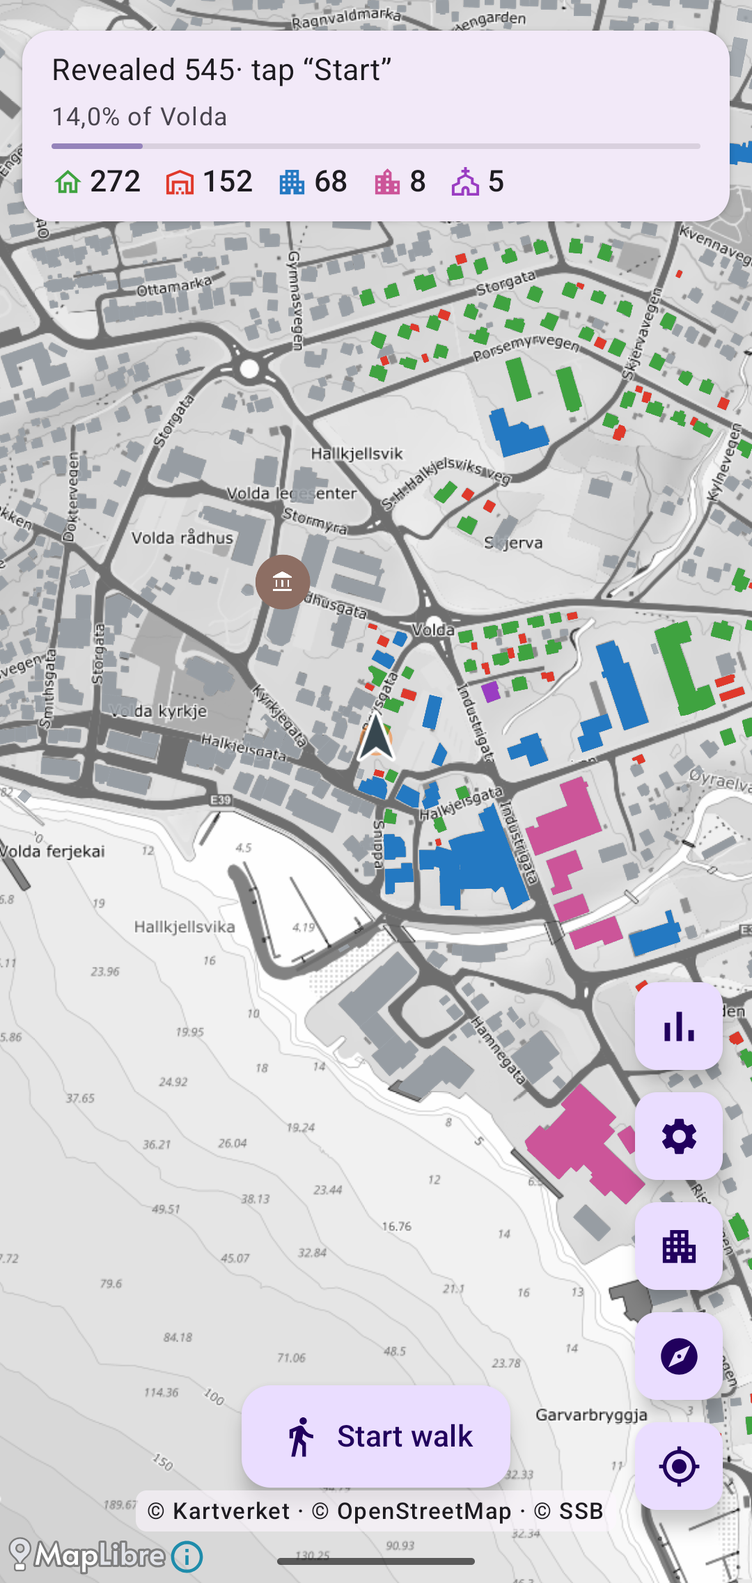
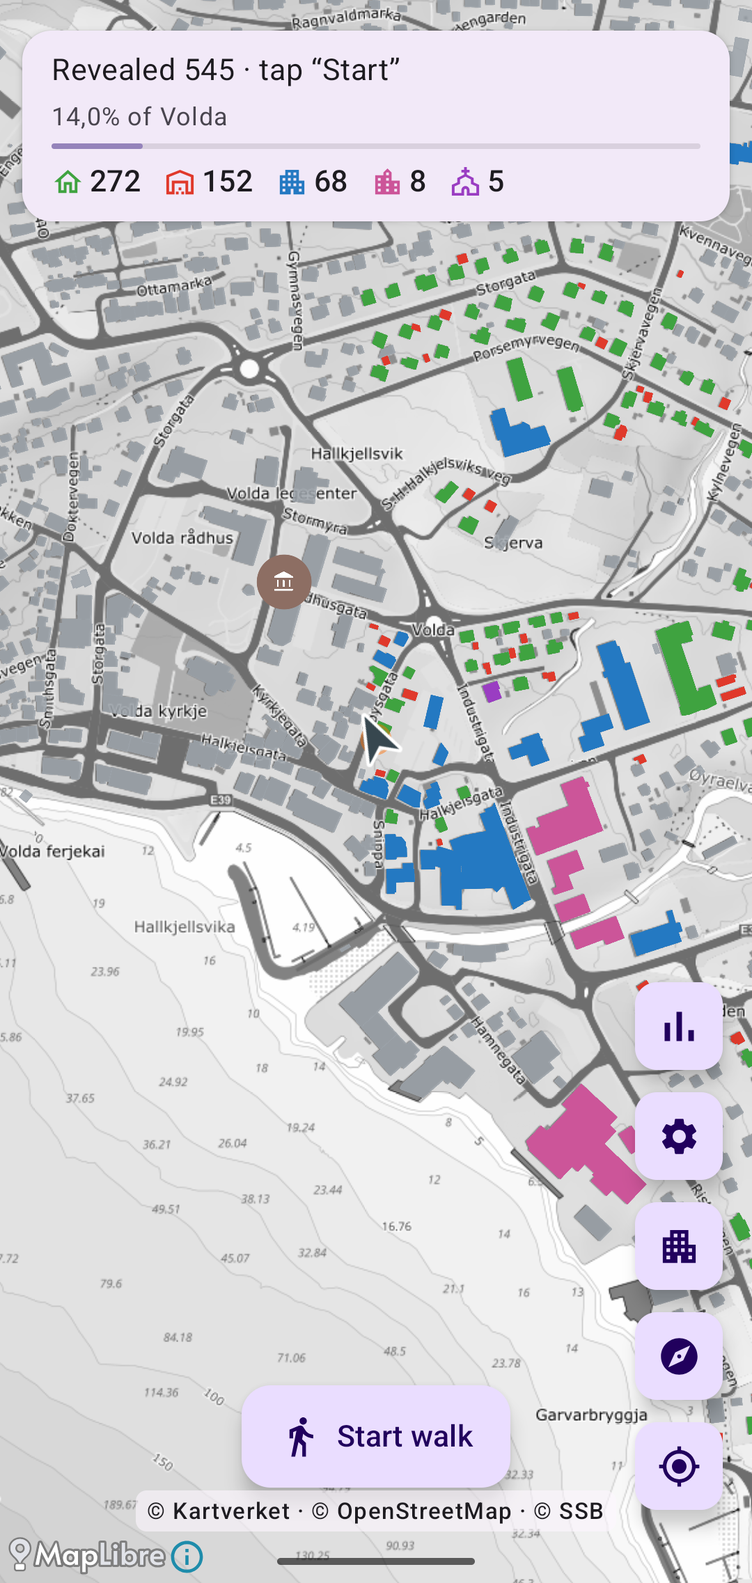
docs: кадри en перезнято; #19 — мовні спліти Play ламають перемикач мов
Три англійські кадри зняті з versionCode 4, плашка читається
«Revealed 545 · tap "Start"».

Норвезьких зняти не вдалося, і причина не в нашому коді. .aab не є одним
APK: Play ріже його на спліти й шле лише потрібні телефону — під процесор,
щільність і МОВИ. На пристрої стояли split_config.{en,uk} при мові системи
uk-UA,en-US; спліта nb не існувало взагалі, хоча в бандлі переклади є
(resources.pb містить Avdekket [nb] і Avdekt [nn]).

Вирішальна перевірка — виставити локаль повз застосунок:
`cmd locale set-app-locales app.streif --locales nb`. Система підтвердила
[nb], інтерфейс лишився англійським — отже справа у відсутніх ресурсах.

⚠ Це дефект тесту, а не зйомки (#19): секцію «Language (dev)» ми віддали
тестерам саме для перевірки перекладів, а вона не працює ні в кого, чий
телефон не має тієї мови в системі.

Рішення Дениса — чекати, поки Play догонить спліти; правка на два рядки
(enableSplit=false + resourceConfigurations) лишається напоготові.

Changed region(s): [[0.4583, 0.4059, 0.55, 0.4996], [0.3361, 0.0312, 0.5194, 0.0624], [0.6722, 0.4059, 0.7028, 0.4371]]

diff --git a/docs/release-checklist.md b/docs/release-checklist.md
@@ -254,7 +254,7 @@ Android-OAuth-клієнт прив'язаний до пари *(package name, S
 | 5 | *App content* → **Foreground service permissions** | за `play-fgs-declaration.md`; відео ✅ знято й перевірено покадрово (дубль 2).<br>✅ **декларацію заповнено** — перевірив Денис 2026-07-29 у Play (Політика → Контент додатків).<br>*Хибна тривога з мого боку, і причина варта запису: у «Надісланий додаток 1» рівно 15 змін, і рядка про foreground service серед них немає, хоча для «Додатки для здоров'я» окремий рядок є. Тобто **список надісланих змін не є переліком заповнених декларацій** — принаймні FGS у нього не потрапляє. Не робити з нього висновків про повноту.* |
 | 6 | *App content* → решта декларацій | Ads: **No** · Content rating (анкета — Everyone) · Target audience: **не діти** · News app: No · Government app: No · Financial features: No · Data deletion: за §4 Data safety · **Health apps: див. нижче** |
 | 6a | *App content* → **Додатки для здоров'я** ⚠ форма З'ЯВЛЯЄТЬСЯ, її не оминути | Тригер — дозвіл `ACTIVITY_RECOGNITION`; Play сам пише «якщо функцій здоров'я немає — вилучіть дозвіл». **Рішення Дениса (2026-07-29): лишаємо дозвіл, відповідаємо «Інше»** з описом, що це заборонний фільтр.<br>**Підстава з коду, не з припущення:** `ActivityGate` використовує AR виключно щоб на `IN_VEHICLE`/`ON_BICYCLE` **припинити** зарахування — жодної фітнес-метрики не збирає й не показує. Альтернатива (прибрати дозвіл) коштувала б якості: лишився б тільки фільтр `MAX_PED_SPEED = 7 м/с` (~25 км/год), тож повільна їзда містом давала б хибні розкриття — рівно те, що тест і має міряти.<br>⚠ **НЕ ставити «Активність і фітнес»**: неправда, і затягує в політику додатків для здоров'я. Крок 2 форми — доступу до даних здоров'я немає (у 12 дозволах бандла жодного від Health Connect); крок 3 — скрізь «Ні».<br>Текст відповіді — одразу під таблицею |
-| 7 | *Store listing* — англійська | Назва, коротким описом (80 симв.), повний опис, скріншоти (мін. 2, телефон), feature graphic 1024×500, іконка 512×512.<br>✅ **Скріншоти en знято 2026-07-30** → `docs/store-assets/play-screenshot-{1-map,2-progress,3-nature}-en.png` (1080×2274, з живими 545 розкриттями у Volda). Зняті з пристрою через `adb exec-out screencap` + тапи по координатах із `uiautomator dump`, тож кадри справжні, не мокапи.<br>⚠ **Верх обрізано свідомо (150 px):** у службовій панелі були час, іконки сповіщень (Telegram), позначка роумінгу й **батарея 12%** — усе особисте й усе зайве в магазині. **Низ НЕ обрізано** — там `© Kartverket · © OpenStreetMap · © SSB`, обов'язкова атрибуція джерел.<br>🔴 Норвезьких кадрів **немає** — сторінка `no-NO` поки показує англійські. У збірці є перемикач локалі (dev-інструменти під `TELEMETRY`), тож знімаються тим самим способом. |
+| 7 | *Store listing* — англійська | Назва, коротким описом (80 симв.), повний опис, скріншоти (мін. 2, телефон), feature graphic 1024×500, іконка 512×512.<br>✅ **Скріншоти en знято 2026-07-30** → `docs/store-assets/play-screenshot-{1-map,2-progress,3-nature}-en.png` (1080×2274, з живими 545 розкриттями у Volda). Зняті з пристрою через `adb exec-out screencap` + тапи по координатах із `uiautomator dump`, тож кадри справжні, не мокапи.<br>⚠ **Верх обрізано свідомо (150 px):** у службовій панелі були час, іконки сповіщень (Telegram), позначка роумінгу й **батарея 12%** — усе особисте й усе зайве в магазині. **Низ НЕ обрізано** — там `© Kartverket · © OpenStreetMap · © SSB`, обов'язкова атрибуція джерел.<br>✅ **Перезнято 2026-07-31** із `versionCode 4` (усі три — у першому було видно дефект #18, решту перезнято для однорідності): плашка тепер читається `Revealed 545 · tap “Start”`. Знято `adb exec-out screencap` + тапи по координатах із `uiautomator dump` — координати **не вгадуються**, дамп віддає точні `bounds` (`Progress`, `City / nature mode` тощо мають `contentDescription`, побічна вигода від accessibility).<br>🔴 Норвезьких кадрів **немає, і причина не в нас** — див. §B.6.3 **#19**: Play не доставив на телефон мовні спліти `nb`/`nn` (переклади в `.aab` є, на пристрої їх немає). Мову в систему додано 2026-07-31, **чекаємо, поки Play догонить спліти**; кадри знімаються одразу після цього. |
 | 8 | *Store listing* — **норвезька (bokmål)** | Додати локалізацію `no-NO`. У застосунку вже є `values-nb` + `values-nn` ✅ |
 | 9 | Зібрати **`.aab`** (не `.apk`) | Для застосунків, створених після серпня 2021, APK більше не приймають |
 | 10 | Створити трек **Closed testing** | Список тестерів — email'и або Google Group. Group зручніша: додавати людей без нового релізу |
@@ -335,6 +335,7 @@ Review трьома незалежними лінзами (втрата дани
 | 6 | 🟡 **debug+upload закрито 2026-07-29; лишився третій SHA-1** | ~~Android-OAuth-клієнти зареєстровано на **старий package**~~ | Було «major» (лише release-SHA-1); зміна `applicationId` (B.0) тимчасово підняла тяжкість до blocker: OAuth-клієнт прив'язаний до пари *(package name, SHA-1)*, тож під `app.streif` не підходив жоден наявний. **Денис створив клієнти на `app.streif` (debug + upload) 2026-07-29 — синк ✅ ПРАЦЮЄ, device-verified** (нижче). Відкритим лишається **лише третій** клієнт — SHA-1 із **Play Console → App signing**: узяти його можна тільки ПІСЛЯ першого завантаження `.aab`, а без нього вхід упаде саме у версії, яку встановлять тестери з треку.<br>⚠ **Урок, вартий запису:** самих клієнтів **не досить**. Згода на `drive.appdata` видається під конкретний ідентифікатор застосунку, а `app.streif` її ніколи не мав — попри те, що `backup_email` приїхав зі старих `shared_prefs` і UI показував «ввійшли». `blockingAccessToken()` мовчазний за задумом (`hasResolution()` → `null`), `sync()` віддає `NotSignedIn`, а `MainActivity` на цей результат toast НЕ показує. Тому збій виглядав як **повна тиша**: ні помилки, ні логу, ні руху `backup_last_ts`. Лікується виходом+входом у Settings. Те саме чекає **кожного тестера**, якщо колись знадобиться міняти ідентифікатор ще раз.<br>**Підтверджено на пристрої 2026-07-29** в обидва боки, не лише за документацією. *Зламано:* «Sikkerhetskopier nå» **не зрушив `backup_last_ts`** (стояв `1785263881703` = 2026-07-28 20:38), Play services писали `GetToken failed … BadAuthentication`. *Полагоджено:* після клієнтів + виходу/входу — `backup_last_ts` = **2026-07-29 10:15**, лічильники `syncOk: 5 · syncFail: 0 · syncDup: 0`, розкриття недоторкані (SHA-256 по таблицях `visits`/`sessions`/`poi_visits` збігся до й після синку). `syncFail: 0` — це заразом доказ, що **push пройшов**: збій запису в Drive пішов би в `catch` і збільшив саме цей лічильник. `syncDup: 0` (рахується при `>1` файлі) — дублікатів копії в Drive не з'явилось, тобто §B.6 #13 у полі не спрацював.<br>**SHA-1 (package `app.streif`):**<br>• ✅ **debug** — `F4:AD:E2:8D:C7:98:2D:22:14:65:EC:7F:0C:39:12:C8:A8:B9:FE:CF` (`~/.android/debug.keystore`, alias `androiddebugkey`);<br>• ✅ **upload-ключ** — `DC:10:A3:D0:79:D4:ED:5F:D4:21:8B:30:C9:0B:8A:23:37:F9:63:D1` (`keytool -printcert -jarfile app-release.aab`);<br>• ✅ **Play App Signing — їх ДВА, і потрібні обидва** (узято 2026-07-29 після першого завантаження `.aab`; розділ переїхав: тепер «Захищено за допомогою Google Play» → «Захист Google Play» → «Підписання додатків»):<br>  – поточний, «Класичний ключ» → `0B:40:78:78:B1:48:7F:A1:5F:F4:71:CF:DF:65:74:7B:63:29:94:22`<br>  – **попередній** → `85:EC:2D:3D:8E:A2:54:AE:A5:2E:54:23:11:E1:AE:06:40:A4:C9:C7` (`CN=Android, O=Google Inc.`, дійсний з 29.07.2026 12:57 — Play згенерував ключ і одразу оновив його на постквантово-готовий).<br>  ⚠ **Чому обидва, а не лише поточний.** Ротація ключів підпису тримається на **APK Signature Scheme v3**, підтримка якої починається з **Android 9 (API 28)**. Нижче — перевірка йде за v2/v1, а там сертифікат **початковий**. У нас `minSdk = 24`, тож тестер на Android 7-8 отримає застосунок, який для Google Sign-In виглядає підписаним ПОПЕРЕДНІМ ключем. Зареєстрований лише новий → у нього вхід беззвучно не працює (та сама тиша, що описана вище). Зайвий OAuth-клієнт не заважає нікому; відсутній коштує мовчазного збою.<br>  ⚠ **Постквантовий** відбиток на тій самій сторінці для OAuth **не використовується** — брати «Класичний ключ».<br>• **Сертифікат ключа завантаження** там же показує `DC:10:A3:…:63:D1` — збігається з тим, що `keytool -printcert -jarfile` дав із нашого `.aab`. Добра перевірка, що підписуємо тим, чим думаємо.<br>⚠ `default_web_client_id` міняти НЕ треба: web-клієнт до package не прив'язаний. |
 | 18 | ✅ **виправлено 2026-07-31** (`a476976`) | ~~Шість рядків покладаються на початковий пробіл, який Android обрізає~~ | `status_hint_start` (`" · tap “Start”"`) і `status_route` (`" · route +%1$d, %2$d m"`) — по одному в `values`/`values-nb`/`values-nn`. Обидва конкатенуються з `status_revealed_n` («Revealed %1$d»), а компілятор ресурсів прибирає крайні пробіли, тож на екрані виходило **`Revealed 545· tap “Start”`** — злите. Побачено не в коді, а на скріншоті, знятому для сторінки Play, тобто дефект уже поїхав би в магазин. `status_route` гірший: він показується **під час прогулянки**, тобто перед кожним тестером.<br>**Як полагоджено:** пробіл переїхав у **конкатенацію** в `StatusPlate` (`Text("$revealed $tail")`) — із трьох можливих способів (`&#160;` · `xml:space="preserve"` · пробіл у коді) цей єдиний не залежить від того, чи наступний перекладач збереже початковий пробіл у своєму файлі. Самі ресурси тепер починаються з «·»: мертвий пробіл прибрано, щоб він не виглядав значущим, і поруч лишено коментар для перекладача в усіх трьох локалях.<br>**Перевірено на скомпільованому APK, а не в джерелі** (`aapt2 dump strings`): `String #1443 : · route +%1$d, %2$d m` — початкового пробілу немає, роздільник дає код. 329 тестів ✅.<br>⚠ Застереження «правити разом із чимось іще, окремий реліз не вартий versionCode» **знято обставиною**: трек **внутрішній**, там номер версії нічого не коштує й повної перевірки немає, а без збірки з правкою неможливо перезняти кадри. Зібрано `versionCode 4` (§B.5) |
 | 11 | ✅ **виправлено 2026-07-27** (`941b0aa`) | ~~`data_extraction_rules.xml` — порожній шаблон~~ | Явні `<exclude>` по `root`/`external`/`device_root` в **обох** блоках (без `<include>` там типово переноситься ВСЕ). ⚠ Підставу перевірено **за офіційною документацією**, не за пам'яттю: для targetSdk ≥ 31 «On devices from some device manufacturers, specifying `android:allowBackup="false"` … **doesn't disable device-to-device transfers** for the app» (developer.android.com/identity/data/autobackup). Перенесення прогресу в нас є і воно свідоме — Drive-копія, яку вмикає сам користувач; мовчазний D2D дублював би її повз будь-яку згоду |
+| 19 | 🟡 **знайдено 2026-07-31** (не з review — на спробі зняти норвезькі кадри) | **Перемикач мови, відданий тестерам, не працює ні в кого, чий телефон не має тієї мови в системі** | `.aab` — не один APK: Play ріже його на **спліти** й доставляє лише потрібні телефону (процесор · щільність · **мови**). Тому переклади можуть бути в бандлі й водночас **відсутні на пристрої**.<br>**Доведено, не припущено.** У `app-release.aab` норвезькі рядки є (`resources.pb` містить `Avdekket` [nb] і `Avdekt` [nn]). На Pixel 9 стоять `base.apk` + `split_config.{arm64_v8a,en,uk,xxhdpi}.apk` — **`nb` немає**, бо мова системи була `uk-UA,en-US`. Перевірка-вбивця: локаль виставлено на рівні каркаса (`adb shell cmd locale set-app-locales app.streif --locales nb`, система підтвердила `[nb]`) — інтерфейс **лишився англійським**. Ресурсів на пристрої просто немає.<br>⚠ **Чому це ширше за кадри:** секцію «Language (dev)» ми віддали тестерам саме щоб вони перевіряли переклади (`versionCode 3`). Норвежець із норвезьким телефоном побачить `nb`, але порівняти з `nn` не зможе, а тестер з англійським телефоном не побачить жодного норвезького рядка — і вирішить, що перекладів немає.<br>**Лікується двома рядками:** `bundle { language { enableSplit = false } }` + `resourceConfigurations = ["en","nb","nn"]`. Разом вони кладуть усі три мови в базовий APK і **зменшують** його, бо зараз туди тягнуться переклади androidx на ~80 мов.<br>**Рішення Дениса (2026-07-31): чекаємо на Play** — він догоняє відсутні спліти сам після додавання мови в систему (фоново, за власним розкладом; підштовхнути сторінкою в Play не вдалось за 3,5 хв). Норвезькі кадри знімаються **після** їх приїзду. Правку тримати напоготові: якщо спліти не приїдуть або дефект підтвердиться в тестера — вона на один реліз |
 
 #### B.6.4 Нові знахідки після спрощення (adversarial review, 2026-07-21, раунд «хірургія»)
 
